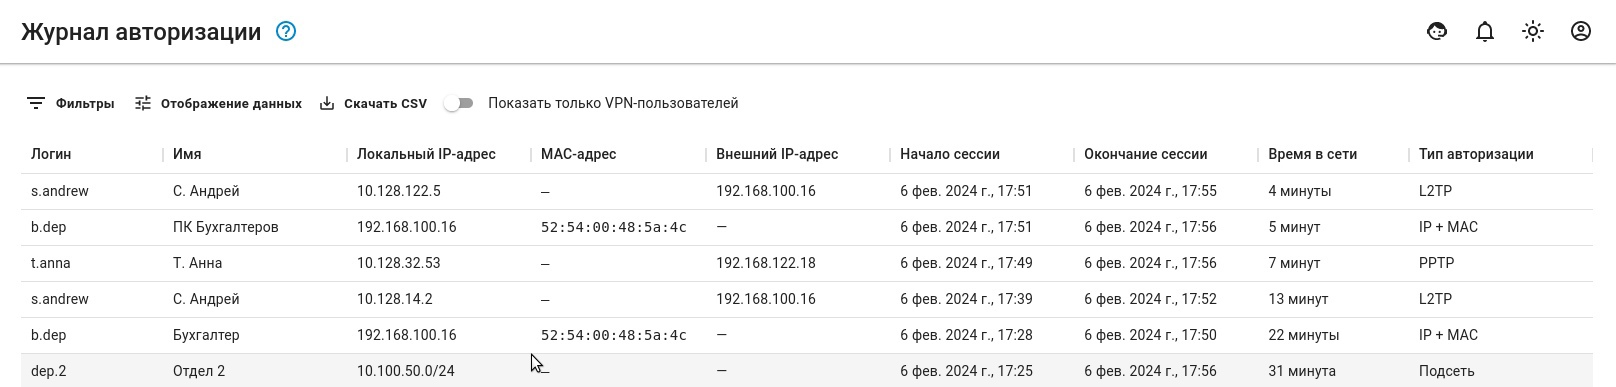
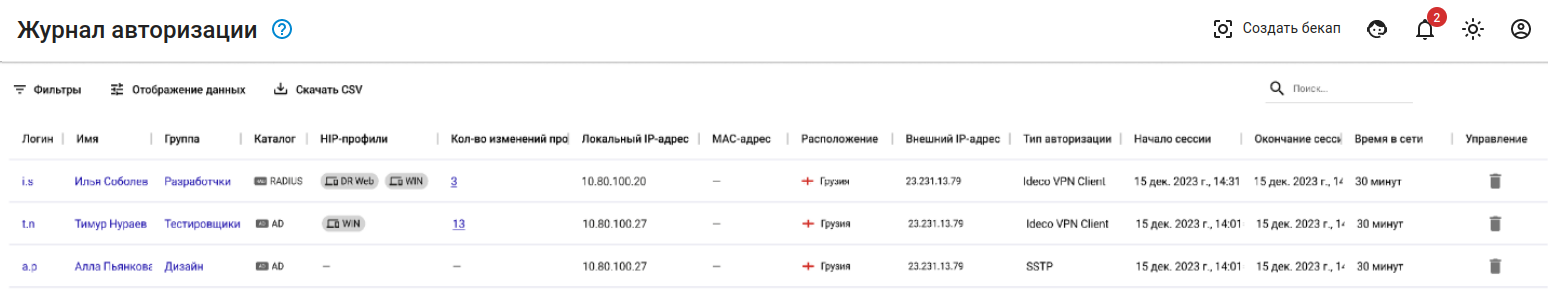
ICS-35330 УТМ. Актуализировать ст-ю Журнал авторизации

diff --git a/settings/monitor/authorized-users.md b/settings/monitor/authorized-users.md
@@ -2,14 +2,14 @@
 
 В разделе **Мониторинг -> Авторизованные пользователи** отображен список всех сессий пользователей, которые авторизовались в NGFW.
 
-| Статус                                          | Описание                                                                                                                                                                         |
-| ----------------------------------------------- | -------------------------------------------------------------------------------------------------------------------------------------------------------------------------------- |
-| ![](/.gitbook/assets/icon-autho-user.png)  | **Подключено**. Пользователь авторизован                                                                                                                                         |
-| ![](/.gitbook/assets/icon-autho-user1.png) | **Ожидает второй фактор авторизации**. Пользователь создал и активировал VPN-подключение, но не прошел двухфакторную аутентификацию (подробнее в [статье](/settings/users/two-factor-authentication.md))     |
+| Статус|Описание|
+| ------|--------|
+| ![](/.gitbook/assets/icon-autho-user.png)  | **Подключено**. Пользователь авторизован |
+| ![](/.gitbook/assets/icon-autho-user1.png) | **Ожидает второй фактор авторизации**. Пользователь создал и активировал VPN-подключение, но не прошел двухфакторную аутентификацию (подробнее в [статье](/settings/users/two-factor-authentication.md)) |
 | ![](/.gitbook/assets/icon-autho-user2.png) | **Превышен лимит лицензии**. Данная сессия заблокирована. Появляется в случае, если превышено количество пользователей по лицензий или у пользователя уже есть активные 5 сессий |
-| ![](/.gitbook/assets/icon-autho-user3.png) | **Сессия удаляется**. Появляется в случае, если была разорвана сессия с динамическим IP-адресом. Сессия с таким статусом будет удалена через 30 секунд                           |
+| ![](/.gitbook/assets/icon-autho-user3.png) | **Сессия удаляется**. Появляется в случае, если была разорвана сессия с динамическим IP-адресом. Сессия с таким статусом будет удалена через 30 секунд |
 
-Пример таблицы с авторизованными разными способами пользователями представлен на скриншоте ниже:
+Пример пользователей, авторизованных разными способами:
 
 ![](/.gitbook/assets/autho-user.png)
 
@@ -17,4 +17,6 @@
 
 Включение опции **Показать только VPN-пользователей** отфильтрует в таблице журнала информацию о всех VPN-сессиях по всем протоколам.
 
-В столбце **Последняя проверка** можно посмотреть результат проверки устройства подключенного через Ideco Client.
+Для просмотра результата проверки устройства, подключенного через Ideco Client, кликните на **Результат** в столбце **Последняя проверка**, откроется соответствующее окно с общей информацией и результатами проверок по [HIP-объектам](/settings/users/hip-profiles.md):
+
+![](/.gitbook/assets/autho-user1.png)

diff --git a/settings/reports/authorization-log.md b/settings/reports/authorization-log.md
@@ -12,7 +12,19 @@ description: >-
 
 ![](/.gitbook/assets/authorization-log.png)
 
-Для поиска определенных авторизованных пользователей нажмите на **Фильтры**, укажите в поле **Столбец** требуемый параметр поиска и в последнем поле - его значение.
+Для поиска авторизованных пользователей нажмите на **Фильтры**, укажите в поле **Столбец** требуемый параметр поиска и в последнем поле - его значение.
+
+В столбце **Кол-во изменений профилей** указано количество изменений HIP-профилей, зафиксированных в результате проверок устройств, подключенных через Ideco Client. Изменения фиксируются при редактировании HIP-профиля в веб-интерфейсе или изменении соответствия устройств настроенным профилям.
+
+Для просмотра результатов проверок устройств, подключенных через Ideco Client, выполните действия:
+
+1\. Кликните на число в столбце **Кол-во изменений профилей**. Откроется список проверок:
+
+![](/.gitbook/assets/authorization-log1.png)
+
+2\. Кликните **Показать** в столбце **Результат**, чтобы увидеть общую информацию и результат проверки по [HIP-объектам](/settings/users/hip-profiles.md):
+
+![](/.gitbook/assets/authorization-log2.png)
 
 **Особенность работы журнала авторизации:**
 

diff --git a/settings/users/radius.md b/settings/users/radius.md
@@ -55,6 +55,6 @@ description: Интеграция с RADIUS-сервером позволяет 
 * Запрещено перемещать других пользователей NGFW в группу **RADIUS**;
 * Запрещена настройка IP и MAC авторизации для пользователей группы;
 * Недоступна двухфакторная аутентификация для пользователей группы;
-* Не доступна авторизация пользователей группы в личном кабинете и веб-почте.
+* Недоступна авторизация пользователей группы в личном кабинете и веб-почте.
 
 {% endhint %}
